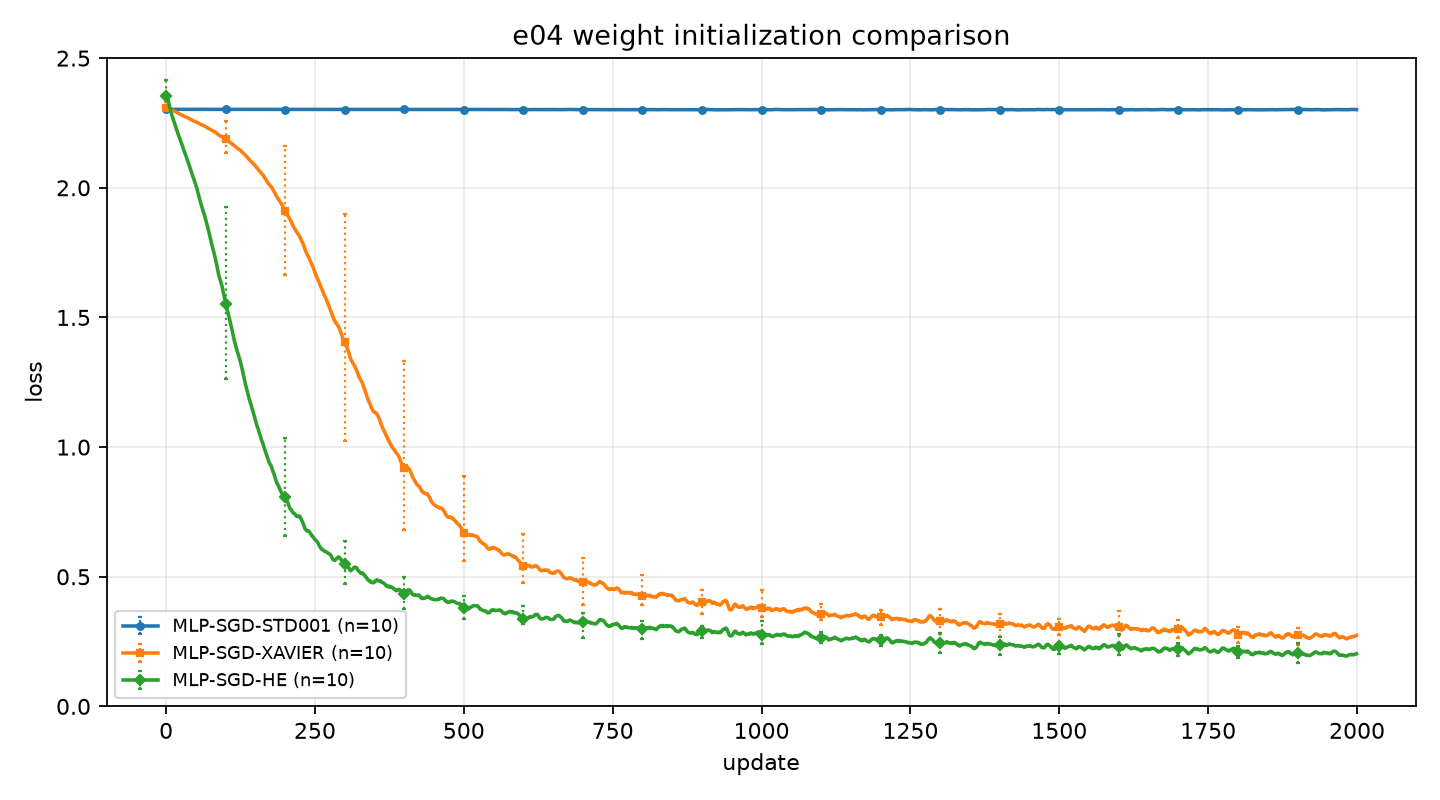
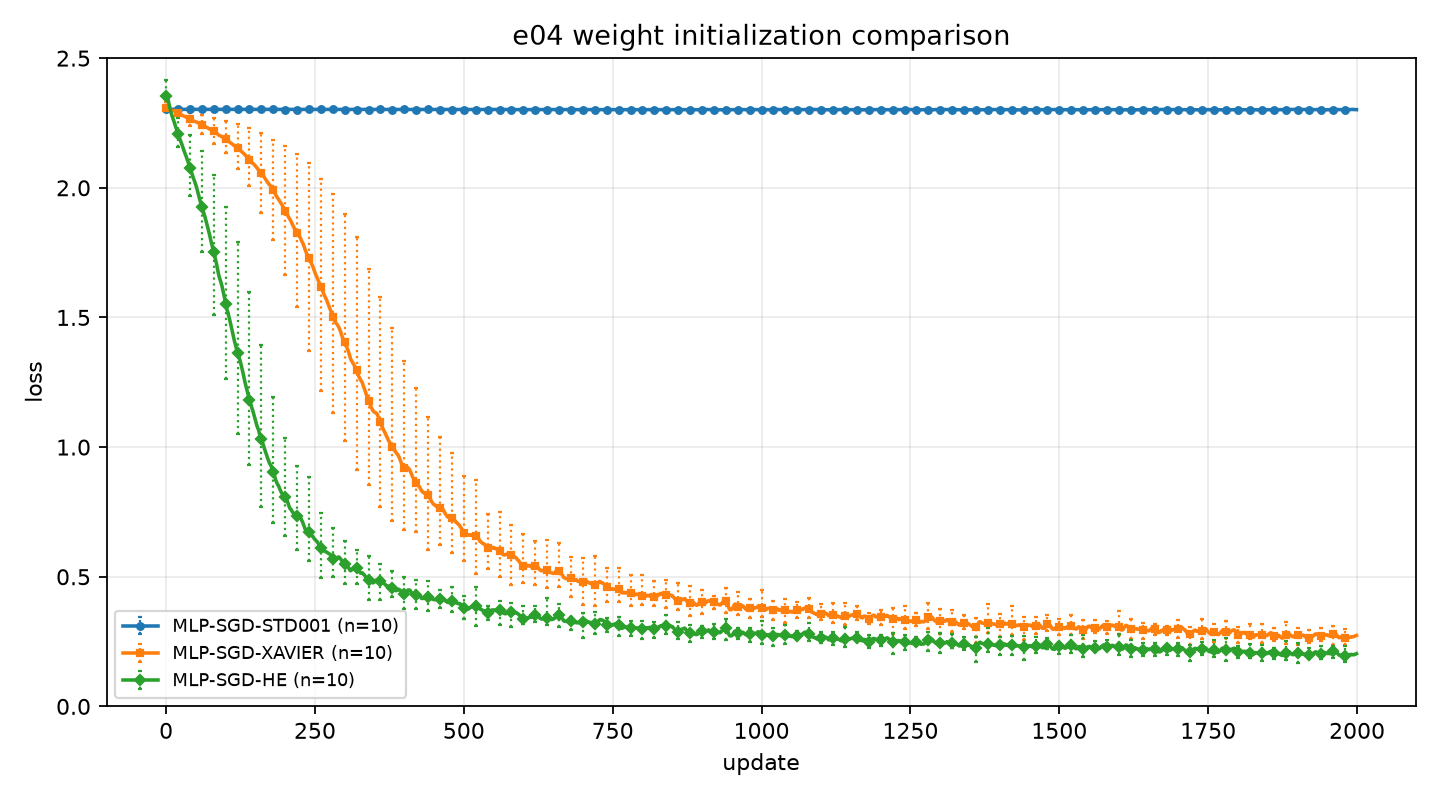
update: deepscratch1 update

diff --git a/deep-learning/experiments/deepscratch1/analysis/e08_cnn_structure.py b/deep-learning/experiments/deepscratch1/analysis/e08_cnn_structure.py
@@ -14,6 +14,7 @@ MODEL_PAIRS = {
 }
 ATOMIC_RUN_IDS = [atomic_run_id for pair in MODEL_PAIRS.values() for atomic_run_id in pair]
 OUTPUT = ANALYSIS_ROOT / "e08_spatial_layout.png"
+VALID_ACCURACY_METRIC = "eval/valid/accuracy"
 ERROR_BARS = ErrorBarStyle(every=2)
 
 
@@ -38,22 +39,22 @@ def _write_paired_final_drops(path, grouped) -> None:
 
 
 def main() -> None:
-    args = parser("Render e08 spatial-layout learning curves.", OUTPUT).parse_args()
+    args = parser("Render e08 spatial-layout validation-accuracy curves.", OUTPUT).parse_args()
     mlflow_client = client(args.tracking_uri)
     grouped = latest_seeded_records(mlflow_client, experiment_name=args.mlflow_experiment, atomic_run_ids=ATOMIC_RUN_IDS)
     records = [record for values in grouped.values() for record in values]
 
     fig, axes = plt.subplots(1, 2, figsize=(11, 4.5), sharey=True)
     for axis, (model, (original_id, permuted_id)) in zip(axes, MODEL_PAIRS.items(), strict=True):
-        plot_curve(axis, metric_curve(mlflow_client, grouped[original_id], "epoch/test/accuracy"), label="original", marker="o", error_bars=ERROR_BARS)
-        plot_curve(axis, metric_curve(mlflow_client, grouped[permuted_id], "epoch/test/accuracy"), label="pixel-permuted", linestyle="--", marker="s", error_bars=ERROR_BARS)
+        plot_curve(axis, metric_curve(mlflow_client, grouped[original_id], VALID_ACCURACY_METRIC), label="original", marker="o", error_bars=ERROR_BARS)
+        plot_curve(axis, metric_curve(mlflow_client, grouped[permuted_id], VALID_ACCURACY_METRIC), label="pixel-permuted", linestyle="--", marker="s", error_bars=ERROR_BARS)
         axis.set_title(model)
-        axis.set_xlabel("epoch")
+        axis.set_xlabel("update")
         axis.set_ylim(0, 1)
         axis.grid(alpha=0.25)
         axis.legend(fontsize=8)
-    axes[0].set_ylabel("full-test accuracy")
-    fig.suptitle("e08 spatial-layout dependence")
+    axes[0].set_ylabel("validation accuracy")
+    fig.suptitle("e08 spatial-layout dependence (evaluated every 20 updates)")
     fig.tight_layout()
     args.output.parent.mkdir(parents=True, exist_ok=True)
     fig.savefig(args.output, dpi=160)

diff --git a/deep-learning/experiments/deepscratch1/analysis/e09_cnn_accuracy.py b/deep-learning/experiments/deepscratch1/analysis/e09_cnn_accuracy.py
@@ -11,11 +11,12 @@ RUNS = {
     "CNN-DEEP-ACCURACY": {"group": "g10", "target": 0.9938, "label": "DeepConvNet"},
 }
 OUTPUT = ANALYSIS_ROOT / "e09_cnn_accuracy.png"
-ERROR_BARS = ErrorBarStyle(every=2)
+VALID_ACCURACY_METRIC = "eval/valid/accuracy"
+ERROR_BARS = ErrorBarStyle(every=10)
 
 
 def main() -> None:
-    args = parser("Render e09 CNN full-test accuracy results.", OUTPUT).parse_args()
+    args = parser("Render e09 CNN validation-accuracy results.", OUTPUT).parse_args()
     mlflow_client = client(args.tracking_uri)
     grouped = {}
     for atomic_run_id, definition in RUNS.items():
@@ -34,12 +35,12 @@ def main() -> None:
 
     fig, axis = plt.subplots(figsize=(8, 5))
     for atomic_run_id, definition in RUNS.items():
-        plot_curve(axis, metric_curve(mlflow_client, grouped[atomic_run_id], "epoch/test/accuracy"), label=definition["label"], marker="o" if atomic_run_id == "CNN-SIMPLE" else "s", error_bars=ERROR_BARS)
+        plot_curve(axis, metric_curve(mlflow_client, grouped[atomic_run_id], VALID_ACCURACY_METRIC), label=definition["label"], marker="o" if atomic_run_id == "CNN-SIMPLE" else "s", error_bars=ERROR_BARS)
         axis.axhline(definition["target"], color="0.45", linestyle=":" if atomic_run_id == "CNN-SIMPLE" else "--", linewidth=1, label=f"{definition['label']} target ({definition['target']:.2%})")
 
-    axis.set_title("e09 CNN accuracy reproduction")
-    axis.set_xlabel("epoch")
-    axis.set_ylabel("full-test accuracy")
+    axis.set_title("e09 CNN accuracy reproduction (evaluated every 20 updates)")
+    axis.set_xlabel("update")
+    axis.set_ylabel("validation accuracy")
     axis.set_ylim(0.9, 1.0)
     axis.grid(alpha=0.25)
     axis.legend(fontsize=8, loc="lower right")

diff --git a/deep-learning/experiments/deepscratch1/analysis/e07_dropout.py b/deep-learning/experiments/deepscratch1/analysis/e07_dropout.py
@@ -2,12 +2,13 @@ from __future__ import annotations
 
 import matplotlib.pyplot as plt
 
-from .common import ANALYSIS_ROOT, client, latest_seeded_records, metric_curve, parser, plot_curve, print_outputs, save_summary_csv
+from .common import ANALYSIS_ROOT, ErrorBarStyle, client, latest_seeded_records, metric_curve, parser, plot_curve, print_outputs, save_summary_csv
 
 
 EXPERIMENT_ID = "e07"
 ATOMIC_RUN_IDS = ["REG-DO-02"]
 OUTPUT = ANALYSIS_ROOT / "e07_dropout.png"
+ERROR_BARS = ErrorBarStyle(every=5)
 
 
 def dropout_label(record) -> str:
@@ -24,8 +25,8 @@ def main() -> None:
     fig, axis = plt.subplots(figsize=(9, 5))
     for atomic_run_id in ATOMIC_RUN_IDS:
         label = dropout_label(grouped[atomic_run_id][0])
-        plot_curve(axis, metric_curve(mlflow_client, grouped[atomic_run_id], "book_epoch/train/accuracy"), label=f"{label} train", marker="o")
-        plot_curve(axis, metric_curve(mlflow_client, grouped[atomic_run_id], "book_epoch/test/accuracy"), label=f"{label} test", linestyle="--", marker="s")
+        plot_curve(axis, metric_curve(mlflow_client, grouped[atomic_run_id], "book_epoch/train/accuracy"), label=f"{label} train", marker="o", error_bars=ERROR_BARS)
+        plot_curve(axis, metric_curve(mlflow_client, grouped[atomic_run_id], "book_epoch/test/accuracy"), label=f"{label} test", linestyle="--", marker="s", error_bars=ERROR_BARS)
 
     axis.set_title("e07 dropout")
     axis.set_xlabel("epoch")

diff --git a/deep-learning/experiments/deepscratch1/analysis/e06_weight_decay.py b/deep-learning/experiments/deepscratch1/analysis/e06_weight_decay.py
@@ -2,12 +2,13 @@ from __future__ import annotations
 
 import matplotlib.pyplot as plt
 
-from .common import ANALYSIS_ROOT, client, latest_seeded_records, metric_curve, parser, plot_curve, print_outputs, save_summary_csv
+from .common import ANALYSIS_ROOT, ErrorBarStyle, client, latest_seeded_records, metric_curve, parser, plot_curve, print_outputs, save_summary_csv
 
 
 EXPERIMENT_ID = "e06"
 ATOMIC_RUN_IDS = ["REG-WD-1E1"]
 OUTPUT = ANALYSIS_ROOT / "e06_weight_decay.png"
+ERROR_BARS = ErrorBarStyle(every=5)
 
 
 def main() -> None:
@@ -18,8 +19,8 @@ def main() -> None:
 
     fig, axis = plt.subplots(figsize=(9, 5))
     for atomic_run_id in ATOMIC_RUN_IDS:
-        plot_curve(axis, metric_curve(mlflow_client, grouped[atomic_run_id], "book_epoch/train/accuracy"), label=f"{atomic_run_id} train", marker="o")
-        plot_curve(axis, metric_curve(mlflow_client, grouped[atomic_run_id], "book_epoch/test/accuracy"), label=f"{atomic_run_id} test", linestyle="--", marker="s")
+        plot_curve(axis, metric_curve(mlflow_client, grouped[atomic_run_id], "book_epoch/train/accuracy"), label=f"{atomic_run_id} train", marker="o", error_bars=ERROR_BARS)
+        plot_curve(axis, metric_curve(mlflow_client, grouped[atomic_run_id], "book_epoch/test/accuracy"), label=f"{atomic_run_id} test", linestyle="--", marker="s", error_bars=ERROR_BARS)
 
     axis.set_title("e06 weight decay")
     axis.set_xlabel("epoch")

diff --git a/deep-learning/experiments/deepscratch1/analysis/e04_mnist_mlp_initializer.py b/deep-learning/experiments/deepscratch1/analysis/e04_mnist_mlp_initializer.py
@@ -8,7 +8,7 @@ from .common import ANALYSIS_ROOT, ErrorBarStyle, client, latest_seeded_records,
 EXPERIMENT_ID = "e04"
 ATOMIC_RUN_IDS = ["MLP-SGD-STD001", "MLP-SGD-XAVIER", "MLP-SGD-HE"]
 OUTPUT = ANALYSIS_ROOT / "e04_mnist_mlp_initializer.png"
-ERROR_BARS = ErrorBarStyle(every=100)
+ERROR_BARS = ErrorBarStyle(every=20)
 MARKERS = {"MLP-SGD-STD001": "o", "MLP-SGD-XAVIER": "s", "MLP-SGD-HE": "D"}
 
 

diff --git a/deep-learning/experiments/deepscratch1/analysis/e05_batchnorm_scale.py b/deep-learning/experiments/deepscratch1/analysis/e05_batchnorm_scale.py
@@ -8,7 +8,7 @@ from .common import ANALYSIS_ROOT, ErrorBarStyle, client, latest_seeded_records,
 EXPERIMENT_ID = "e05"
 ATOMIC_RUN_IDS = [f"BN-OFF-{index:02d}" for index in range(1, 17)] + [f"BN-ON-{index:02d}" for index in range(1, 17)]
 OUTPUT = ANALYSIS_ROOT / "e05_batchnorm_scale.png"
-ERROR_BARS = ErrorBarStyle(every=2)
+ERROR_BARS = ErrorBarStyle(every=1)
 
 
 def scale_value(record) -> float:
